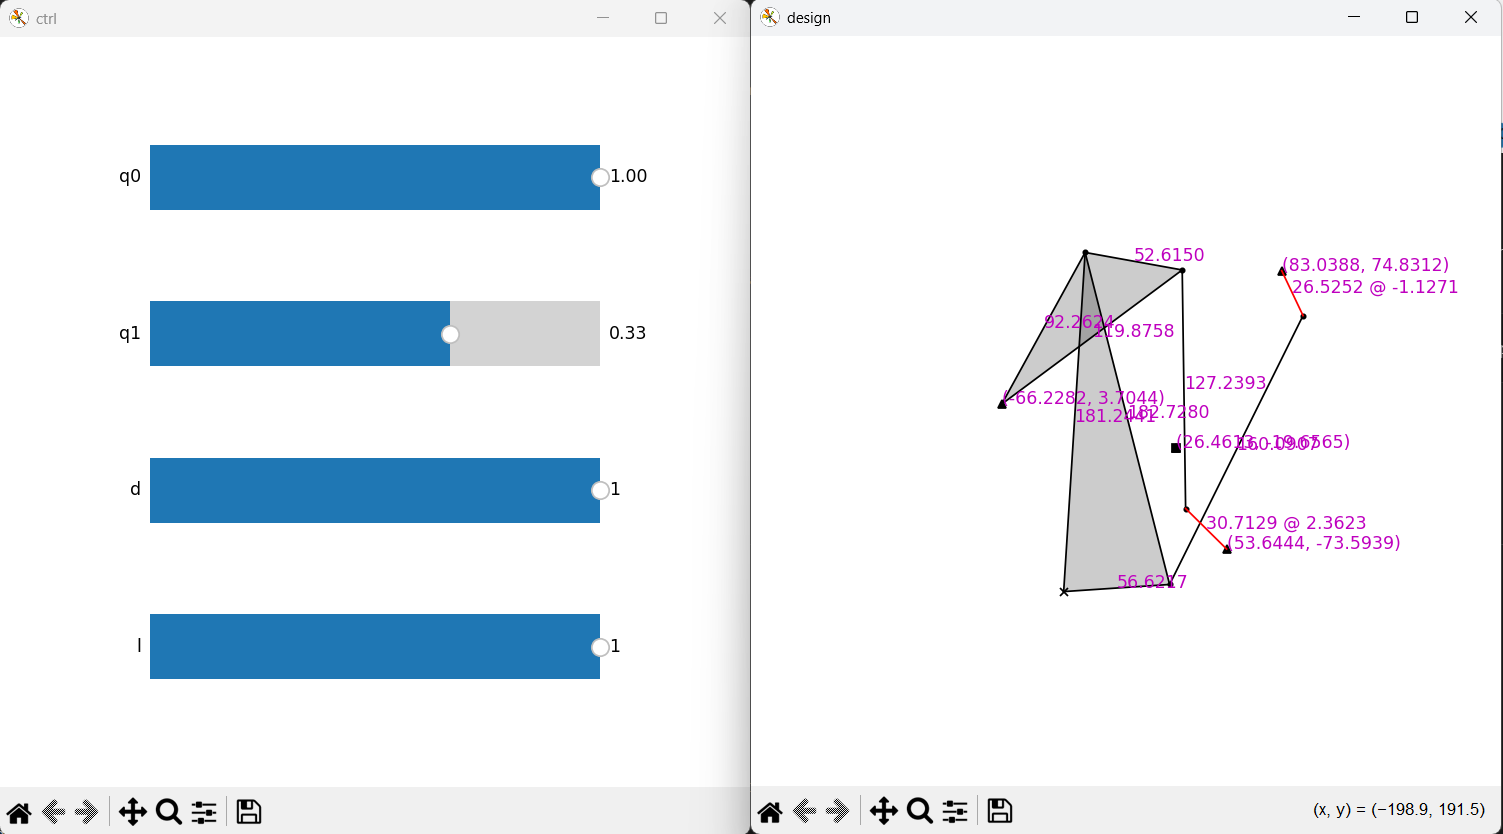
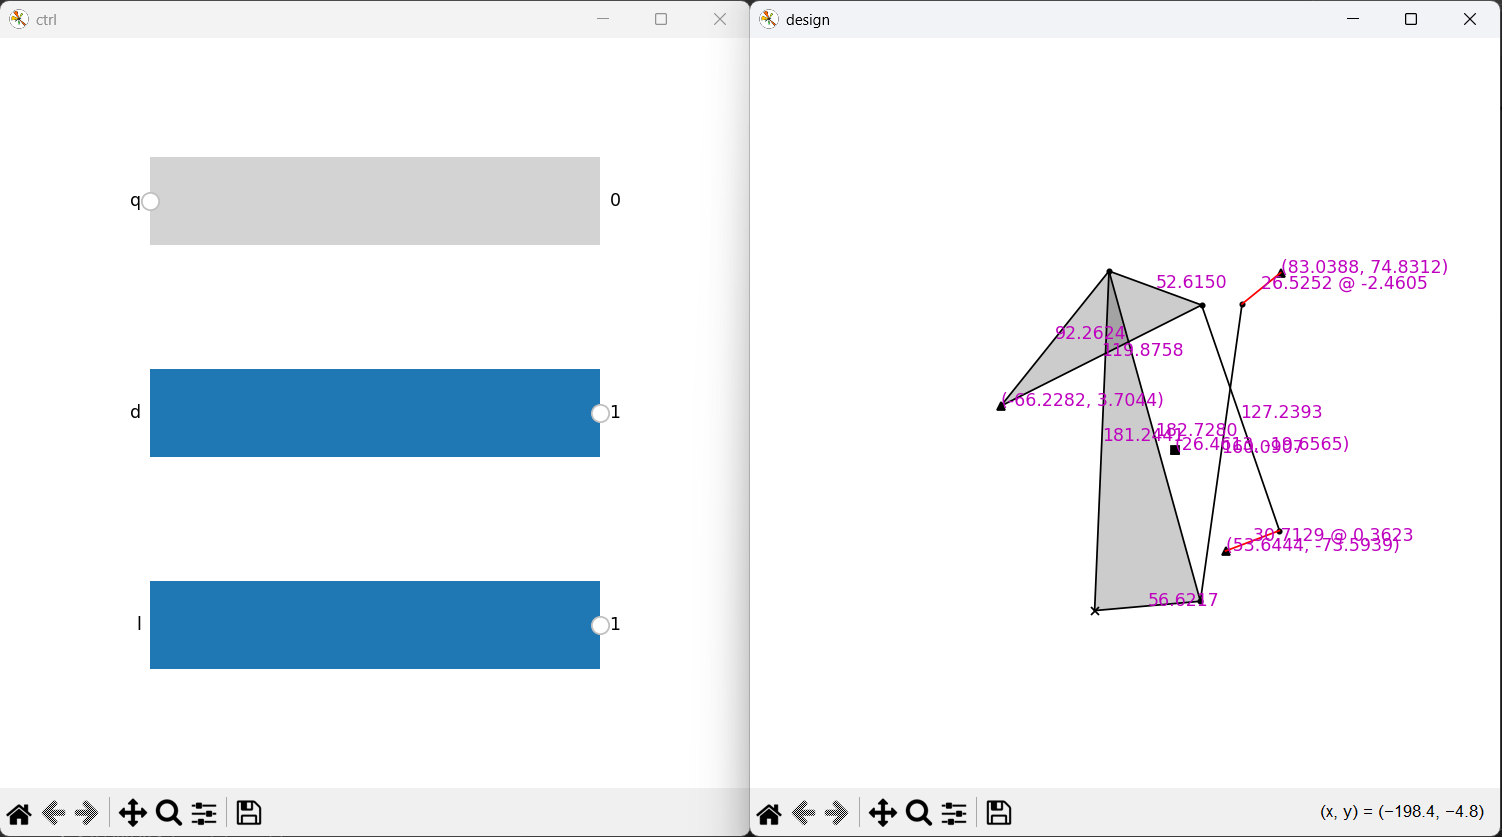
Updated readme

diff --git a/examples/filter_and_plot_topologies.py b/examples/filter_and_plot_topologies.py
@@ -18,17 +18,10 @@ def main():
         n_links_to_output = nx.shortest_path_length(
             g, list(g.nodes)[0], list(g.nodes)[-1]
         )
-        n_ground_joints = len(g.edges(0))
-        n_ground_motors = len([
-            e for e in g.edges(0)
-            if g[e[0]][e[1]]["type"] == "m"
-        ])
         if (
-            n_motors == 3 and
-            n_links <= 10 and
-            n_links_to_output == 3 and
-            n_ground_joints == 3 and
-            n_ground_motors == 3
+            n_motors <= 2 and
+            n_links <= 5 and
+            n_links_to_output >= 2
         ):
             filtered_plans.append(plan)
 

diff --git a/README.md b/README.md
@@ -26,6 +26,12 @@ This example enumerates all the possible topologies and save the intermediate an
 python -m examples.enum_topologies
 ```
 
+The following command can be used to resume a previous enumeration. 
+
+```
+python -m examples.enum_topologies PATH/TO/FOLDER
+```
+
 ### Filter and Plot Topologies
 This example shows how to filter the topologies and plot some, which is useful for investigating the available topologies and narrowing down specific ones for dimensional synthesis. 
 
@@ -77,15 +83,17 @@ This example shows how to design a one-DoF walking leg. This is useful for build
 
 ![one-DoF walking leg](assets/one_dof_walking_leg.png)
 
-### Design Two-DoF Serial Leg
-This example shows how to design a two-DoF serial leg. The leg has decoupled motion in the swinging, and extension and retraction direction. The Jacobian matrix that maps the input joint velocities to the foot velocities in the polar coordinate system is diagonal. The available commands stay the same. 
+### Design Two-DoF Constant Jacobian Leg
+This example shows how to design a two-DoF constant jacobian leg. The Jacobian matrix that maps the input joint velocities to the foot velocities in the polar coordinate system should be constant. Both serial and parallel legs can satisfy the requirment. The available commands stay the same. 
 
-![two-DoF serial leg](assets/two_dof_serial_leg.png)
+![two-DoF constant jacobian parallel leg](assets/two_dof_constant_jacobian_parallel_leg.png)
 
-### Design Two-DoF Parallel Leg
-This example shows how to design a two-DoF parallel leg. The leg has fully coupled motion in the swinging, and extension and retraction direction. The Jacobian matrix that maps the input joint velocities to the foot velocities in the polar coordinate system has no zero elements. The available commands stay the same. 
+![two-DoF constant jacobian serial leg](assets/two_dof_constant_jacobian_serial_leg.png)
 
-![two-DoF parallel leg](assets/two_dof_parallel_leg.png)
+### Design Three-DoF Parallel Leg
+This example shows how to design a three-DoF parallel leg. The available commands stay the same. 
+
+![three-DoF parallel leg](assets/three_dof_parallel_leg.png)
 
 ## Citation
 The one-DoF topology generation and dimensional optimization are described in: 
